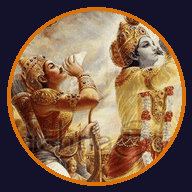
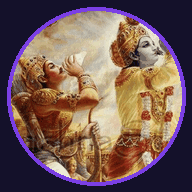
Friendlier fonts and a vibrant purple, sky blue and yellow palette
Claude-Session: https://claude.ai/code/session_01261wpQq8fQzFNjSxki9pnV

Changed region(s): [[0.0312, 0.0312, 0.9688, 0.9688], [0.6875, 0.25, 0.75, 0.3125], [0.75, 0.3125, 0.7812, 0.3438]]

diff --git a/index.html b/index.html
@@ -3,8 +3,8 @@
 <head>
 <meta charset="utf-8">
 <meta name="viewport" content="width=device-width,initial-scale=1,viewport-fit=cover">
-<meta name="theme-color" content="#fbf6ec" media="(prefers-color-scheme: light)">
-<meta name="theme-color" content="#13122a" media="(prefers-color-scheme: dark)">
+<meta name="theme-color" content="#f6f3ff" media="(prefers-color-scheme: light)">
+<meta name="theme-color" content="#14112a" media="(prefers-color-scheme: dark)">
 <meta name="apple-mobile-web-app-capable" content="yes">
 <meta name="mobile-web-app-capable" content="yes">
 <meta name="apple-mobile-web-app-title" content="Abhyasa">
@@ -15,37 +15,37 @@
 <style>:root{padding-top:env(safe-area-inset-top,0px);padding-bottom:env(safe-area-inset-bottom,0px)}body{margin:0}img{max-width:100%}[hidden]{display:none!important}</style>
 <script src="platform.js"></script>
 <title>Abhyāsa</title>
-<link rel="stylesheet" href="https://fonts.googleapis.com/css2?family=Cormorant+Garamond:ital,wght@0,500;0,600;0,700;1,500&family=Mukta:wght@400;500;600&family=Tiro+Devanagari+Sanskrit&display=swap">
+<link rel="stylesheet" href="https://fonts.googleapis.com/css2?family=Baloo+2:wght@500;600;700;800&family=Nunito:wght@400;500;600;700&family=Tiro+Devanagari+Sanskrit&display=swap">
 <style>
 /* Layout: an app with four tabs (Today, Plan, Progress, Notes). Bottom tab bar on phones, top tab bar on wide screens. Temple palette: saffron, peacock teal, tulasi green and gold on soft ivory by day, deep night-indigo after dark. */
 :root{
-  --bg:#fbf6ec; --surface:#fffdf8; --ink:#2a1f3d; --muted:#6e6378; --line:#eadfcb;
-  --accent:#0f6d7a; --accent-soft:#dff0ef; --saffron:#d9720b; --saffron-soft:#fdebd3; --gold:#b8860b; --gold-soft:#f6ead0;
+  --bg:#f6f3ff; --surface:#ffffff; --ink:#241a4d; --muted:#6a6290; --line:#e6dff8;
+  --accent:#0b8fd6; --accent-soft:#dff2fd; --saffron:#7b3fe4; --saffron-soft:#efe6ff; --gold:#d9a400; --gold-soft:#fff5cc;
   --tulasi:#3f7d3a; --good:#3f7d3a; --warn:#c0521b; --on-accent:#ffffff;
-  --sky1:#fde7c8; --sky2:#f7c58e; --sky3:#e98a4d;
+  --sky1:#e9e0ff; --sky2:#bfe6ff; --sky3:#ffe27a;
   --c-spiritual:#d9720b; --c-thoughts:#7a4fb0; --c-productivity:#2c5aa0; --c-research:#0f6d7a;
   --c-sleep:#4a5b8f; --c-food:#3f7d3a; --c-media:#b8395a; --c-private:#7a7080; --c-service:#a3519b;
-  --q1:#b8395a; --q2:#d9720b; --q3:#0f6d7a; --q4:#8a8090;
-  --display:"Cormorant Garamond",Georgia,"Times New Roman",serif;
-  --body:"Mukta",system-ui,-apple-system,"Segoe UI",sans-serif;
+  --q1:#d6336c; --q2:#e0a100; --q3:#0b8fd6; --q4:#8a8090;
+  --display:"Baloo 2","Nunito",system-ui,sans-serif;
+  --body:"Nunito",system-ui,-apple-system,"Segoe UI",sans-serif;
   --deva:"Tiro Devanagari Sanskrit","Noto Serif Devanagari","Mukta",serif;
 }
 @media (prefers-color-scheme: dark){:root:not([data-theme="light"]){
-  --bg:#13122a; --surface:#1d1b3a; --ink:#f4ead6; --muted:#b0a6be; --line:#302d55;
-  --accent:#4fc3c9; --accent-soft:#1b3a47; --saffron:#ffa53a; --saffron-soft:#3b2a1a; --gold:#e3b65a; --gold-soft:#332b1e;
-  --tulasi:#7cc474; --good:#7cc474; --warn:#ff8a55; --on-accent:#13122a;
-  --sky1:#1b1a3d; --sky2:#2b2560; --sky3:#5a3a7a;
+  --bg:#14112a; --surface:#1f1a3f; --ink:#f4f0ff; --muted:#b7aedb; --line:#372e63;
+  --accent:#5ccbff; --accent-soft:#163650; --saffron:#b892ff; --saffron-soft:#2f2456; --gold:#ffd447; --gold-soft:#3b3217;
+  --tulasi:#7cc474; --good:#7cc474; --warn:#ff8a55; --on-accent:#14112a;
+  --sky1:#1d1842; --sky2:#243f73; --sky3:#6b4fb0;
   --c-spiritual:#ffa53a; --c-thoughts:#b693f0; --c-productivity:#8fb0ff; --c-research:#4fc3c9;
   --c-sleep:#99a8e0; --c-food:#7cc474; --c-media:#f07a98; --c-private:#a59bb0; --c-service:#e08ed6;
-  --q1:#f07a98; --q2:#ffa53a; --q3:#4fc3c9; --q4:#a59bb0; color-scheme:dark}}
+  --q1:#ff7aa8; --q2:#ffd447; --q3:#5ccbff; --q4:#a59bb0; color-scheme:dark}}
 :root[data-theme="dark"]{
-  --bg:#13122a; --surface:#1d1b3a; --ink:#f4ead6; --muted:#b0a6be; --line:#302d55;
-  --accent:#4fc3c9; --accent-soft:#1b3a47; --saffron:#ffa53a; --saffron-soft:#3b2a1a; --gold:#e3b65a; --gold-soft:#332b1e;
-  --tulasi:#7cc474; --good:#7cc474; --warn:#ff8a55; --on-accent:#13122a;
-  --sky1:#1b1a3d; --sky2:#2b2560; --sky3:#5a3a7a;
+  --bg:#14112a; --surface:#1f1a3f; --ink:#f4f0ff; --muted:#b7aedb; --line:#372e63;
+  --accent:#5ccbff; --accent-soft:#163650; --saffron:#b892ff; --saffron-soft:#2f2456; --gold:#ffd447; --gold-soft:#3b3217;
+  --tulasi:#7cc474; --good:#7cc474; --warn:#ff8a55; --on-accent:#14112a;
+  --sky1:#1d1842; --sky2:#243f73; --sky3:#6b4fb0;
   --c-spiritual:#ffa53a; --c-thoughts:#b693f0; --c-productivity:#8fb0ff; --c-research:#4fc3c9;
   --c-sleep:#99a8e0; --c-food:#7cc474; --c-media:#f07a98; --c-private:#a59bb0; --c-service:#e08ed6;
-  --q1:#f07a98; --q2:#ffa53a; --q3:#4fc3c9; --q4:#a59bb0; color-scheme:dark}
+  --q1:#ff7aa8; --q2:#ffd447; --q3:#5ccbff; --q4:#a59bb0; color-scheme:dark}
 *{box-sizing:border-box}
 [hidden]{display:none!important}
 html,body{background:var(--bg)}
@@ -224,6 +224,15 @@ select{font:inherit;border:1px solid var(--line);border-radius:10px;padding:6px 
 .sheet h3{font-family:var(--display);font-size:1.25rem;margin:0}
 .sheet p{margin:0}
 @media (prefers-reduced-motion:reduce){*{transition:none!important;animation:none!important}}
+
+/* vibrant theme: purple brand, sky blue accents, sunny yellow highlights */
+.hero .verse,.mantra{font-style:normal}
+.hero .greet{font-weight:800;letter-spacing:-.01em}
+h2{font-weight:700;letter-spacing:-.01em}
+button.primary{background:linear-gradient(135deg,var(--saffron),color-mix(in srgb,var(--saffron) 55%,var(--accent)));border-color:transparent;box-shadow:0 6px 16px -8px var(--saffron)}
+.tabs button[aria-selected="true"]{background:linear-gradient(135deg,var(--saffron-soft),var(--accent-soft))}
+.panel,.stat,.snip{box-shadow:0 8px 24px -18px color-mix(in srgb,var(--saffron) 60%,transparent)}
+.mantra{color:color-mix(in srgb,var(--gold) 75%,var(--saffron))}
 </style>
 </head>
 <body>
@@ -875,7 +884,7 @@ function japaRing(rounds, done){
   for(let i=0;i<n;i++){ const a = -Math.PI/2 + i*2*Math.PI/n, x = cx+Math.cos(a)*r, y = cy+Math.sin(a)*r, on = i < (rounds||0);
     s += `<circle cx="${x.toFixed(1)}" cy="${y.toFixed(1)}" r="6.2" fill="${on?"var(--tulasi)":"none"}" stroke="${on?"var(--tulasi)":"var(--line)"}" stroke-width="2"/>`; }
   s += `<circle cx="${cx}" cy="${cy-r-1}" r="3" fill="var(--gold)"/>`;
-  s += `<text x="${cx}" y="${cy-2}" text-anchor="middle" font-family="Cormorant Garamond,Georgia,serif" font-weight="700" font-size="26" fill="var(--ink)">${rounds??"–"}</text>`;
+  s += `<text x="${cx}" y="${cy-2}" text-anchor="middle" font-family="Baloo 2,Nunito,sans-serif" font-weight="800" font-size="26" fill="var(--ink)">${rounds??"–"}</text>`;
   s += `<text x="${cx}" y="${cy+16}" text-anchor="middle" font-size="10" fill="var(--muted)">${done!=null?"done "+fromMin(done):"rounds"}</text></svg>`;
   return s;
 }

diff --git a/sw.js b/sw.js
@@ -1,6 +1,6 @@
 /* Offline support: the app shell and pictures come from the cache, and each visit
    checks for a newer version in the background so updates arrive on the next open. */
-const VERSION = "abhyasa-v9";
+const VERSION = "abhyasa-v11";
 const SHELL = ["./", "index.html", "platform.js", "manifest.webmanifest", "gita.json", "vendor/anthropic.mjs",
   "icons/icon-192.png", "icons/logo-128.png", "img/krishna-arjuna.jpg", "icons/icon-512.png", "icons/apple-touch-icon.png",
   "img/baby-krsna.jpg", "img/cowherd-lunch.jpg", "img/vrindavan-forest.jpg", "img/damodara.jpg",
